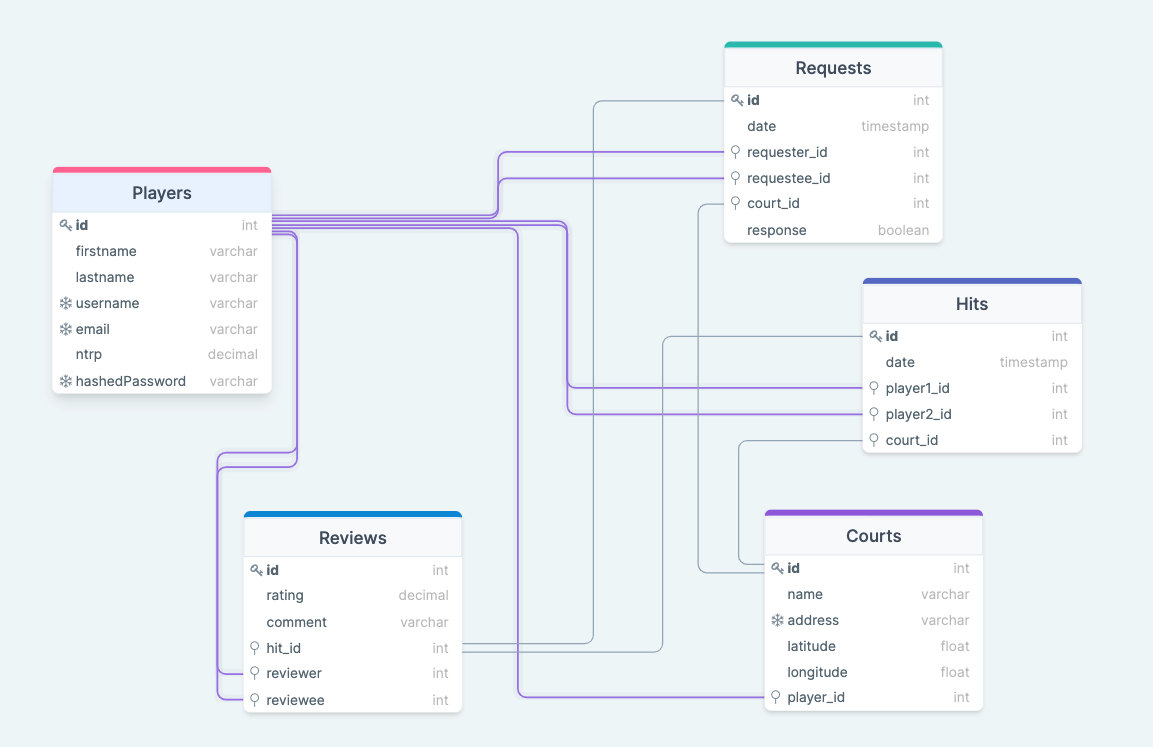
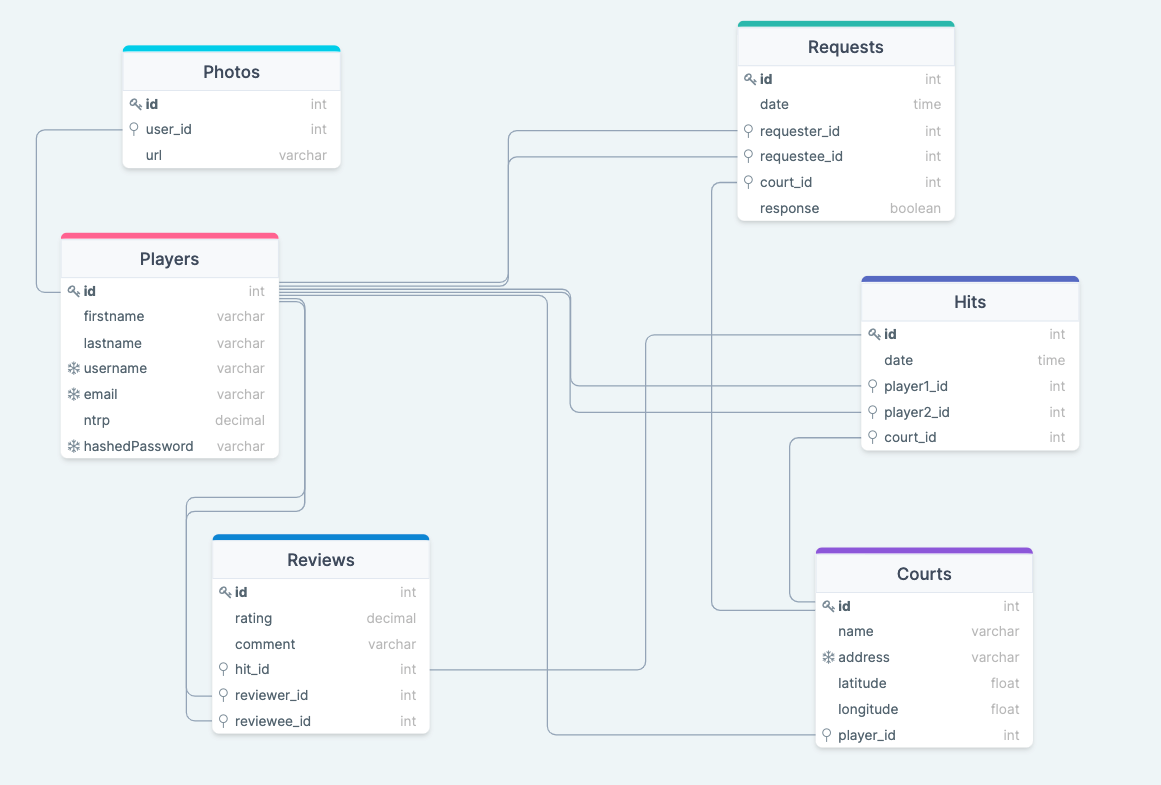
s3 setup for photo upload

diff --git a/react-app/src/components/Home/Map/index.js b/react-app/src/components/Home/Map/index.js
@@ -38,7 +38,7 @@ export default function Map() {
             <MapContainer>
                 <GoogleMapReact
                     bootstrapURLKeys={{
-                        key: 'key',
+                        key: 'AIzaSyADUiyN1EtAgFI5DKE6WyiQqPpUuI9Tya4',
                     }}
                     center={{ lat: 37.7655, lng: -122.4381 }}
                     defaultZoom={13}

diff --git a/react-app/src/store/index.js b/react-app/src/store/index.js
@@ -2,12 +2,10 @@ import { createStore, combineReducers, applyMiddleware, compose } from 'redux';
 import thunk from 'redux-thunk';
 import session from './session';
 import court from './court';
-import photo from './photo';
 
 const rootReducer = combineReducers({
     session,
     court,
-    photo,
 });
 
 let enhancer;

diff --git a/app/api/photo_routes.py b/app/api/photo_routes.py
@@ -1,10 +1,8 @@
-import boto3
-import botocore
 from flask import Blueprint, request
 from flask_login import login_required
 
 from app.config import Config
-from app.aws_s3 import upload_file_to_s3
+from app.aws_s3 import (upload_file_to_s3, allowed_file, get_unique_filename)
 from app.models import db, Photo
 
 photo_routes = Blueprint('photos', __name__)
@@ -12,24 +10,28 @@ photo_routes = Blueprint('photos', __name__)
 
 @photo_routes.route('/', methods=["POST"])
 @login_required
-def upload_file:
-    if "file" not in request.files:
-        return "No user_file key in request.files"
+def upload_image():
+    if "image" not in request.files:
+        return {"errors": "image required"}, 400
 
-    file = request.files["file"]
+    image = request.files["file"]
 
-    if file:
-        file_url = upload_file_to_s3(file, Config.S3_BUCKET)
+    if not allowed_file(image.filename):
+        return {"errors": "file type not permitted"}, 400
 
-        file = Photo(
-            user_id=request.form.get('user_id')
-            url=file_url
-        )
+    image.filename = get_unique_filename(image.filename)
 
-        db.session.add(file)
-        db.session.commit()
+    upload = upload_file_to_s3(image)
 
-        return file.to_dict()
+    if "url" not in upload:
+        # if the dictionary doesn't have a url key
+        # it means that there was an error when we tried to upload
+        # so we send back that error message
+        return upload, 400
 
-    else:
-        return No File Attached!
+    url = upload["url"]
+    # flask_login allows us to get the current user from the request
+    new_image = Photo(user=current_user, url=url)
+    db.session.add(new_image)
+    db.session.commit()
+    return {"url": url}

diff --git a/app/aws_s3.py b/app/aws_s3.py
@@ -1,5 +1,6 @@
 import boto3
 import botocore
+import uuid
 from .config import Config
 
 s3 = boto3.client(
@@ -9,10 +10,20 @@ s3 = boto3.client(
 )
 
 
+def allowed_file(filename):
+
+    return "." in filename and \
+           filename.rsplit(".", 1)[1].lower() in {"pdf", "png", "jpg", "jpeg", "gif"}
+
+
+def get_unique_filename(filename):
+    ext = filename.rsplit(".", 1)[1].lower()
+    unique_filename = uuid.uuid4().hex
+    return f"{unique_filename}.{ext}"
+
+
 def upload_file_to_s3(file, bucket_name, acl="public-read"):
-
     try:
-
         s3.upload_fileobj(
             file,
             bucket_name,
@@ -22,8 +33,7 @@ def upload_file_to_s3(file, bucket_name, acl="public-read"):
                 "ContentType": file.content_type
             }
         )
-
     except Exception as e:
         return {"errors": str(e)}
 
-    return f"{Config.S3_LOCATION}{file.filename}"
+    return {"url": f"{Config.S3_LOCATION}{file.filename}"}

diff --git a/app/models/photo.py b/app/models/photo.py
@@ -14,5 +14,5 @@ class Photo(db.Model):
         return {
             "id": self.id,
             "player": self.user_id,
-            "file": self.file,
+            "url": self.url,
         }
